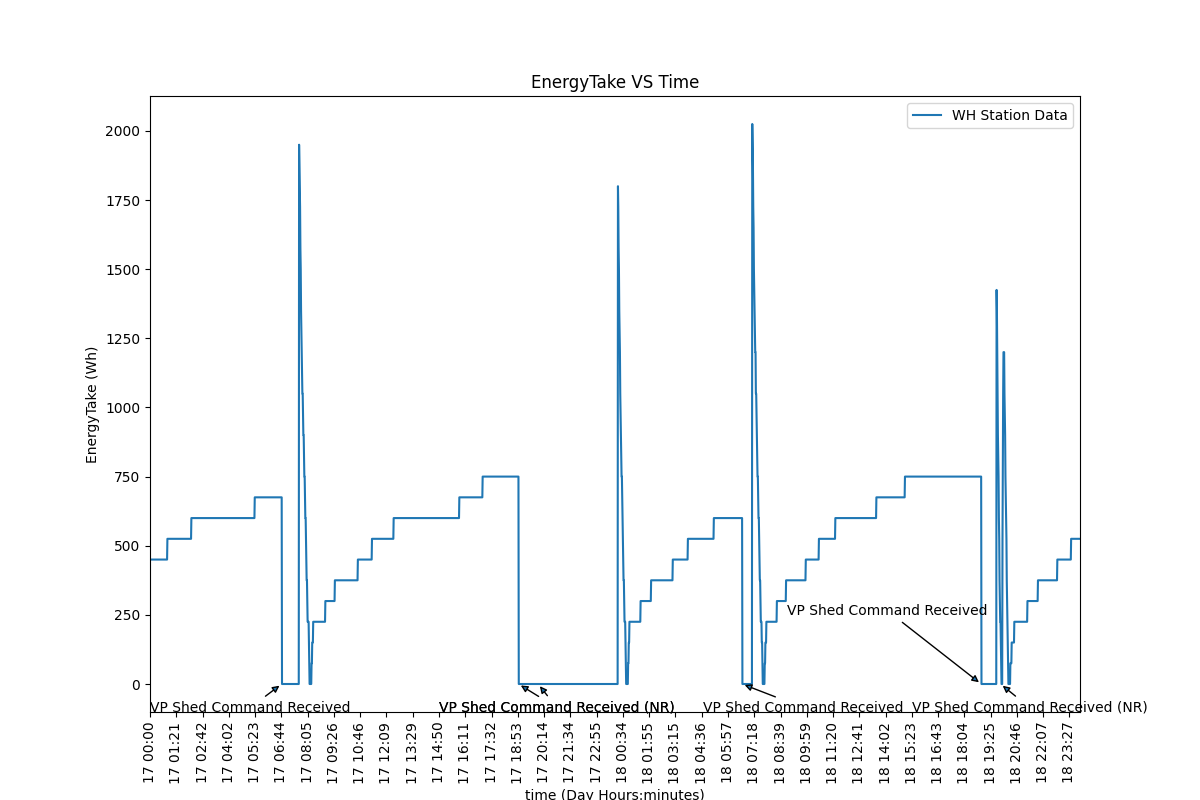
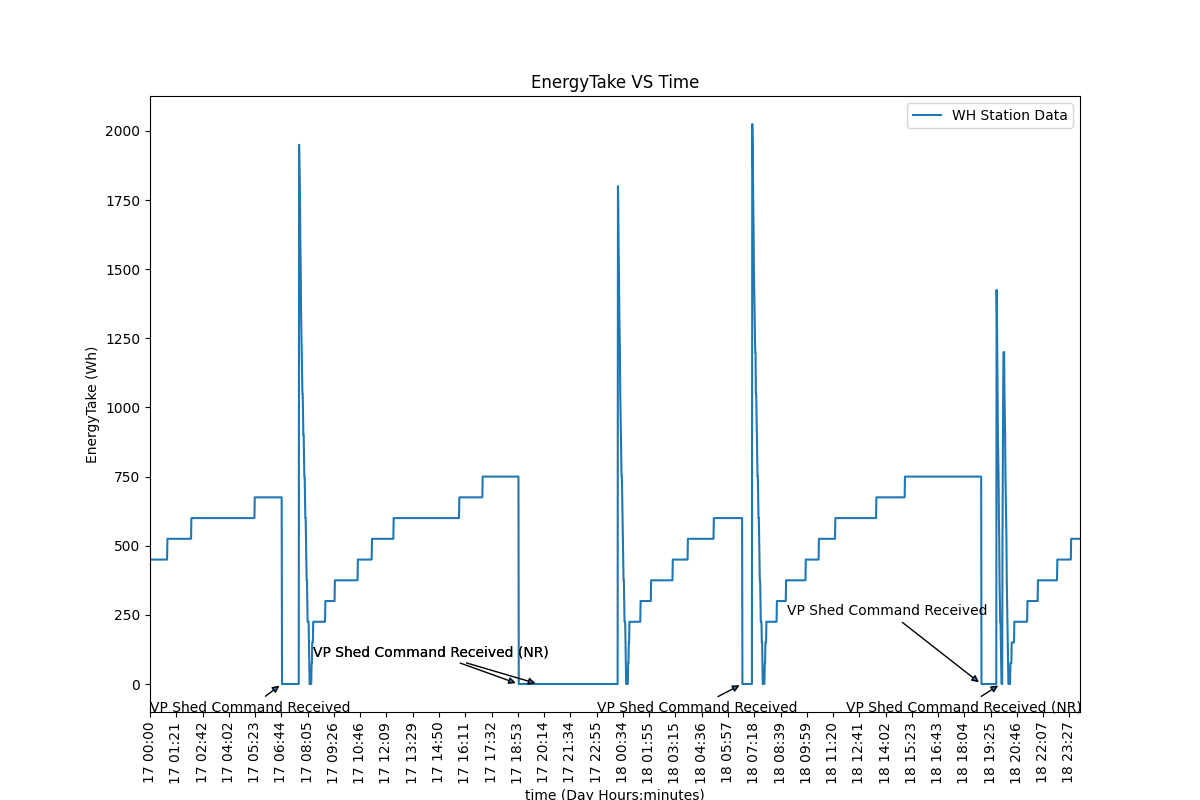
fixed plots

Changed region(s): [[0.2775, 0.8125, 0.9558, 0.9062]]

diff --git a/Programmable_Load_Control/scripts/ewh_EnergyTake_emcb_open.py b/Programmable_Load_Control/scripts/ewh_EnergyTake_emcb_open.py
@@ -31,11 +31,11 @@ def ewh_energyTake_no_loadup(log):
     ax.set_title('EnergyTake VS Time')
     ax.legend(loc='upper right')
     ax.annotate('VP Shed Command Received',xy=('17 06:45',0),xytext=('17 00:00',-100),arrowprops=dict(arrowstyle='-|>'))
-    ax.annotate('VP Shed Command Received (NR)',xy=('17 18:55',0),xytext=('17 14:50',-100),arrowprops=dict(arrowstyle='-|>'))
-    ax.annotate('VP Shed Command Received (NR)',xy=('17 19:55',0),xytext=('17 14:50',-100),arrowprops=dict(arrowstyle='-|>'))
-    ax.annotate('VP Shed Command Received',xy=('18 06:41',0),xytext=('18 04:40',-100),arrowprops=dict(arrowstyle='-|>'))
+    ax.annotate('VP Shed Command Received (NR)',xy=('17 18:55',0),xytext=('17 08:20',100),arrowprops=dict(arrowstyle='-|>'))
+    ax.annotate('VP Shed Command Received (NR)',xy=('17 19:55',0),xytext=('17 08:20',100),arrowprops=dict(arrowstyle='-|>'))
+    ax.annotate('VP Shed Command Received',xy=('18 06:41',0),xytext=('17 22:55',-100),arrowprops=dict(arrowstyle='-|>'))
     ax.annotate('VP Shed Command Received',xy=('18 18:56',0),xytext=('18 09:00',250),arrowprops=dict(arrowstyle='-|>'))
-    ax.annotate('VP Shed Command Received (NR)',xy=('18 19:55',0),xytext=('18 15:23',-100),arrowprops=dict(arrowstyle='-|>'))
+    ax.annotate('VP Shed Command Received (NR)',xy=('18 19:55',0),xytext=('18 12:00',-100),arrowprops=dict(arrowstyle='-|>'))
     #plt.show()
     plt.savefig("/home/parallels/Desktop/emcb-use-cases/Programmable_Load_Control/figures/ewh/overleaf_figures/ewh_EnergyTake_no_load_up_watts_emcb_open.png")
 
